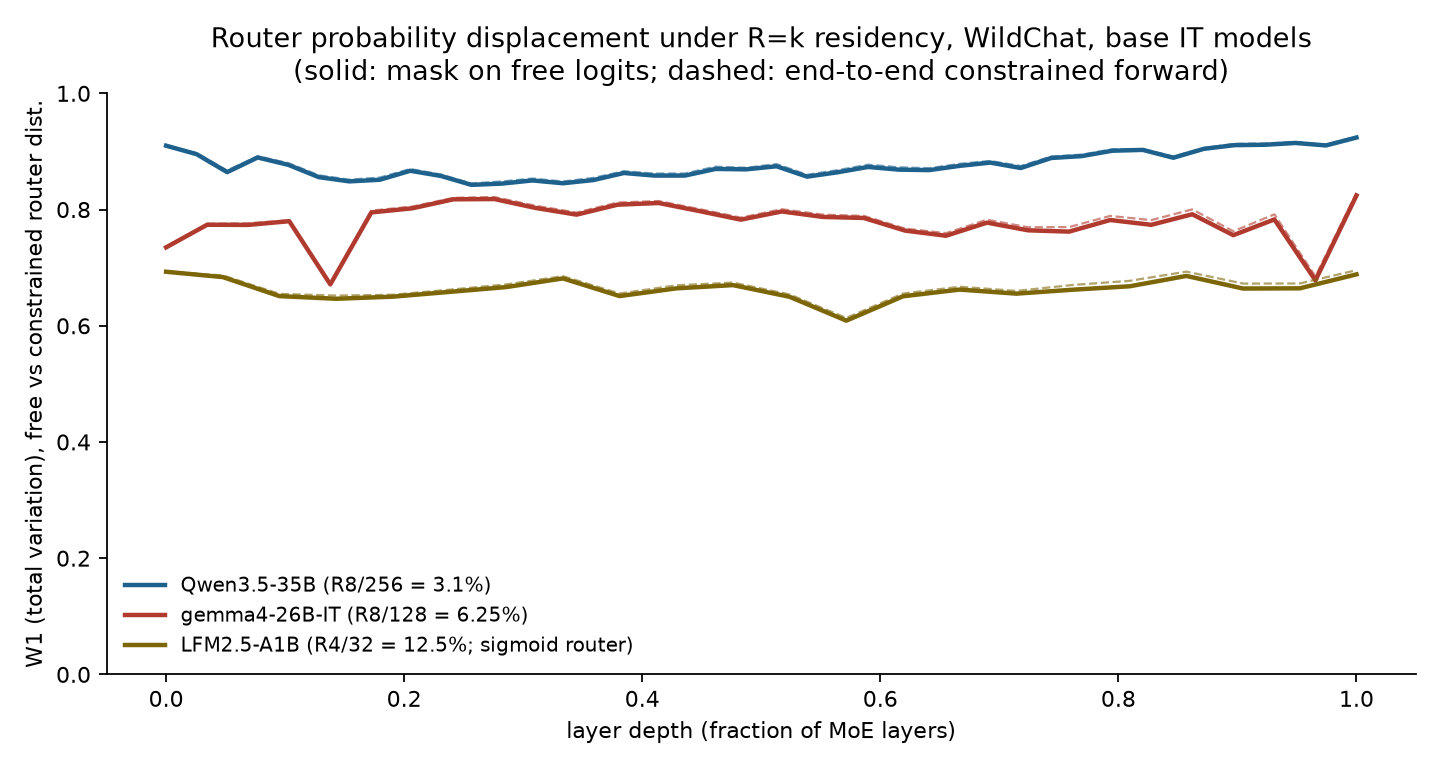
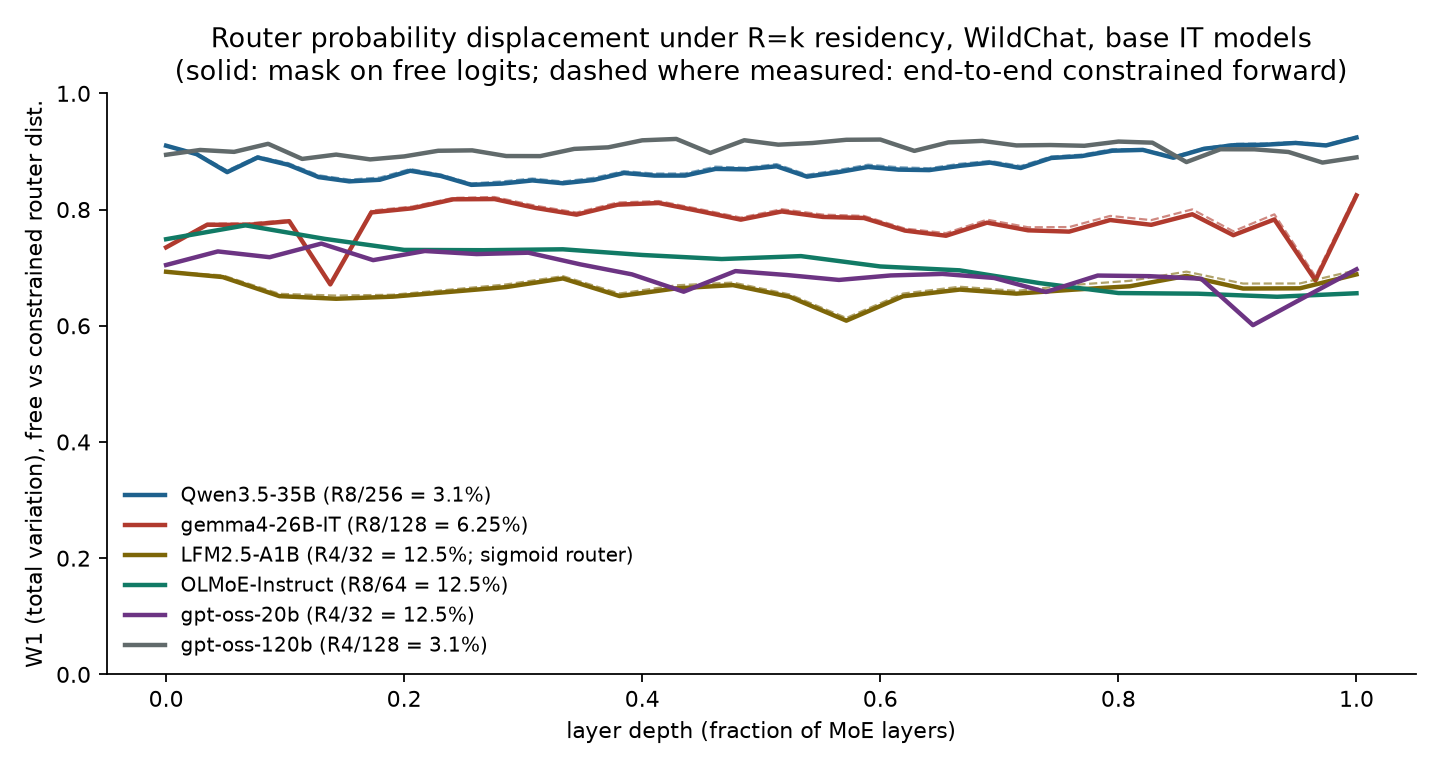
router Wasserstein: olmoe + gpt-oss-20b + gpt-oss-120b (120b via vLLM MXFP4 prefill capture; HF dequant infeasible under 251GB cgroup); six-model figure

diff --git a/analysis/residency/router_wasserstein.py b/analysis/residency/router_wasserstein.py
@@ -45,6 +45,12 @@ def routers_of(model, family):
     if family == "lfm":
         from transformers.models.lfm2_moe import modeling_lfm2_moe as m
         return [mod for mod in model.modules() if isinstance(mod, m.Lfm2MoeSparseMoeBlock)]
+    if family == "olmoe":
+        from transformers.models.olmoe import modeling_olmoe as m
+        return [mod for mod in model.modules() if isinstance(mod, m.OlmoeTopKRouter)]
+    if family == "gptoss":
+        from transformers.models.gpt_oss import modeling_gpt_oss as m
+        return [mod for mod in model.modules() if isinstance(mod, m.GptOssTopKRouter)]
     raise ValueError(family)
 
 
@@ -59,10 +65,20 @@ def hook_capture(routers, family, store):
             h = r.register_forward_hook(
                 lambda _m, _i, out, li=li: store.setdefault(li, []).append(
                     out[0].detach().float()))
-        else:                                    # lfm: gate Linear inside the block
+        elif family == "lfm":                    # gate Linear inside the block
             h = r.gate.register_forward_hook(
                 lambda _m, _i, out, li=li: store.setdefault(li, []).append(
                     out.detach().float()))
+        elif family == "olmoe":                  # router returns (logits, w, idx)
+            h = r.register_forward_hook(
+                lambda _m, _i, out, li=li: store.setdefault(li, []).append(
+                    out[0].detach().float()))
+        else:                                    # gptoss: recompute logits from inputs
+            def _cap(_m, _i, _out, li=li):
+                x = _i[0].reshape(-1, _m.weight.shape[1])
+                lg = torch.nn.functional.linear(x.float(), _m.weight.float(), _m.bias.float())
+                store.setdefault(li, []).append(lg.detach())
+            h = r.register_forward_hook(_cap)
         handles.append(h)
     return handles
 
@@ -84,7 +100,9 @@ def masked_dist(lg, R, family):
 
 def main():
     ap = argparse.ArgumentParser()
-    ap.add_argument("--family", required=True, choices=("gemma4", "qwen35", "lfm"))
+    ap.add_argument("--family", required=True,
+                    choices=("gemma4", "qwen35", "lfm", "olmoe", "gptoss"))
+    ap.add_argument("--dequantize", action="store_true", help="gpt-oss: dequantize MXFP4 to bf16")
     ap.add_argument("--model-path", required=True)
     ap.add_argument("--R", type=int, required=True, help="residency budget (=k)")
     ap.add_argument("--n", type=int, default=200)
@@ -94,11 +112,25 @@ def main():
 
     from transformers import AutoModelForCausalLM, AutoTokenizer
     tok = AutoTokenizer.from_pretrained(A.model_path)
+    kw = {}
+    if A.family == "gptoss" and A.dequantize:
+        from transformers import Mxfp4Config
+        kw["quantization_config"] = Mxfp4Config(dequantize=True)
+        kw["device_map"] = "auto"      # 120b dequantized (235GB) streams via offload
+    if A.family == "gptoss" and not A.dequantize:
+        kw["device_map"] = "cuda"
     model = AutoModelForCausalLM.from_pretrained(
-        A.model_path, dtype=torch.bfloat16).to("cuda").eval()
+        A.model_path, dtype=torch.bfloat16, **kw)
+    if "device_map" not in kw:
+        model = model.to("cuda")
+    assert routers_of(model, A.family), "no router modules found"
+    model = model.eval()
+    # olmoe/gptoss: imposed-only (no constrained-forward hook exists; the three
+    # patched models showed endtoend - imposed <= 0.005, so imposed suffices)
     patch = {"gemma4": GL.patch_gemma4, "qwen35": GL.patch_qwen35,
-             "lfm": GL.patch_lfm}[A.family]
-    patch()
+             "lfm": GL.patch_lfm}.get(A.family)
+    if patch:
+        patch()
     tag = {"gemma4": GL.tag_gemma4, "qwen35": GL.tag_qwen35}.get(A.family)
     if tag:
         tag(model)
@@ -116,28 +148,31 @@ def main():
                                       tokenize=True, return_dict=True)
         ids = torch.tensor([enc["input_ids"][: A.max_tok]], device="cuda")
         free_store, con_store = {}, {}
+        imposed_only = A.family in ("olmoe", "gptoss")
         with torch.no_grad():
             GL.CFG.update(on=False, enforce_from=0, batch=1)
             hs = hook_capture(routers, A.family, free_store)
             model(ids)
             for h in hs:
                 h.remove()
-            GL.CFG.update(on=True, R=A.R, enforce_from=0, batch=1,
-                          cold_start=False)
-            hs = hook_capture(routers, A.family, con_store)
-            model(ids)
-            for h in hs:
-                h.remove()
-            GL.CFG.update(on=False, batch=1)
+            if not imposed_only:
+                GL.CFG.update(on=True, R=A.R, enforce_from=0, batch=1,
+                              cold_start=False)
+                hs = hook_capture(routers, A.family, con_store)
+                model(ids)
+                for h in hs:
+                    h.remove()
+                GL.CFG.update(on=False, batch=1)
         T = ids.shape[1]
         for li in range(L):
             lf = free_store[li][0].reshape(T, -1)
-            lc = con_store[li][0].reshape(T, -1)
             pf = dist_from_logits(lf, A.family)
             q_imp = masked_dist(lf, A.R, A.family)
-            q_e2e = masked_dist(lc, A.R, A.family)
             sums_imp[li] += 0.5 * (pf - q_imp).abs().sum(-1).sum().cpu()
-            sums_e2e[li] += 0.5 * (pf - q_e2e).abs().sum(-1).sum().cpu()
+            if not imposed_only:
+                lc = con_store[li][0].reshape(T, -1)
+                q_e2e = masked_dist(lc, A.R, A.family)
+                sums_e2e[li] += 0.5 * (pf - q_e2e).abs().sum(-1).sum().cpu()
         ntok += T
         if pi % 25 == 0:
             print(f"[rw] {pi}/{len(prompts)}", flush=True)
@@ -154,9 +189,9 @@ def main():
                         "Producer: analysis/residency/router_wasserstein.py"])
             w.writerow(["model", "family", "R", "layer", "w1_imposed", "w1_endtoend", "n_tokens"])
         for li in range(L):
+            e2e = "" if A.family in ("olmoe", "gptoss") else f"{sums_e2e[li].item()/ntok:.5f}"
             w.writerow([os.path.basename(A.model_path.rstrip("/")), A.family, A.R, li,
-                        f"{sums_imp[li].item()/ntok:.5f}",
-                        f"{sums_e2e[li].item()/ntok:.5f}", ntok])
+                        f"{sums_imp[li].item()/ntok:.5f}", e2e, ntok])
     print(f"[rw] DONE {A.family}: mean imposed "
           f"{sums_imp.sum().item()/ntok/L:.4f}, endtoend "
           f"{sums_e2e.sum().item()/ntok/L:.4f} over {ntok} tokens", flush=True)

diff --git a/analysis/residency/router_wasserstein_oss120_vllm.py b/analysis/residency/router_wasserstein_oss120_vllm.py
@@ -1,0 +1,72 @@
+#!/usr/bin/env python3
+"""oss-120b router W1 via vLLM prefill capture (MXFP4-native; HF dequant path is
+infeasible under the 251GB cgroup). Hooks FusedMoE.forward in-process, prefders
+WildChat prompts one at a time (max_tokens=1), computes imposed-variant W1 with
+the same offline scan as router_wasserstein.py, appends to the same CSV."""
+import csv
+import json
+import os
+import sys
+
+import torch
+
+sys.path.insert(0, "/workspace/temporal-moe/analysis/residency")
+sys.path.insert(0, "/workspace/temporal-moe/analysis")
+os.environ["VLLM_ENABLE_V1_MULTIPROCESSING"] = "0"
+
+import granularity_ladder as GL                                      # noqa: E402
+from paths import ABLATIONS                                          # noqa: E402
+
+MODEL = "/dev/shm/gpt-oss-120b"
+PROMPTS = "/workspace/olmoe-adapt/data/wildchat_prompts_train5k.jsonl"
+R, N, MAXTOK = 4, 100, 512
+
+CAP = []
+import vllm_glue                                                     # noqa: E402
+vllm_glue.install()
+import vllm_residency as VR                                          # noqa: E402
+_orig_apply = VR.apply
+def _cap_apply(key, router_logits, *a, **k):
+    CAP.append(router_logits.detach().float())
+    return _orig_apply(key, router_logits, *a, **k)
+VR.apply = _cap_apply
+
+from vllm import LLM, SamplingParams                                 # noqa: E402
+llm = LLM(model=MODEL, enforce_eager=True, gpu_memory_utilization=0.92,
+          max_model_len=1024, enable_prefix_caching=False)
+sp = SamplingParams(max_tokens=1, temperature=0)
+
+prompts = [json.loads(l)["text"] for l in open(PROMPTS)][:N]
+sums = None
+ntok = 0
+L = None
+for pi, text in enumerate(prompts):
+    CAP.clear()
+    llm.chat([[{"role": "user", "content": text}]], sp, use_tqdm=False)
+    if L is None:
+        L = len(CAP)
+        sums = torch.zeros(L)
+        print(f"[rw-vllm] {L} MoE layers captured per pass", flush=True)
+    assert len(CAP) % L == 0, (len(CAP), L)
+    # last L entries = the single decode step; the first block(s) are prefill.
+    # prefill block: first L captures cover the full prompt.
+    for li in range(L):
+        lg = CAP[li][: MAXTOK].float()                # [T,E] prefill logits
+        pf = torch.softmax(lg, -1)
+        mask = GL.compute_resident_mask_accel(
+            lg.unsqueeze(1), R, evict="min_logit").squeeze(1)
+        q = pf * mask
+        q = q / q.sum(-1, keepdim=True).clamp_min(1e-9)
+        sums[li] += 0.5 * (pf - q).abs().sum(-1).sum().cpu()
+    ntok += min(CAP[0].shape[0], MAXTOK)
+    if pi % 25 == 0:
+        print(f"[rw-vllm] {pi}/{N}", flush=True)
+
+out = os.path.join(ABLATIONS, "router_wasserstein.csv")
+with open(out, "a", newline="") as fh:
+    w = csv.writer(fh)
+    for li in range(L):
+        w.writerow(["gpt-oss-120b", "gptoss", R, li,
+                    f"{sums[li].item()/ntok:.5f}", "", ntok])
+print(f"[rw-vllm] DONE oss120: mean imposed {sums.sum().item()/ntok/L:.4f} "
+      f"over {ntok} tokens", flush=True)

diff --git a/analysis/residency/router_wasserstein_figure.py b/analysis/residency/router_wasserstein_figure.py
@@ -4,18 +4,22 @@ matplotlib.use("Agg")
 import matplotlib.pyplot as plt
 rows=[r for r in csv.reader(open("results/ablations/router_wasserstein.csv")) if len(r)==7 and r[0]!="model" and not r[0].startswith("#")]
 fig,ax=plt.subplots(figsize=(9,4.8))
-colors={"qwen35":"#1e618d","gemma4":"#b03a2e","lfm":"#7d6608"}
-labels={"qwen35":"Qwen3.5-35B (R8/256 = 3.1%)","gemma4":"gemma4-26B-IT (R8/128 = 6.25%)","lfm":"LFM2.5-A1B (R4/32 = 12.5%; sigmoid router)"}
-for fam in ("qwen35","gemma4","lfm"):
-    sub=sorted([(int(r[3]),float(r[4]),float(r[5])) for r in rows if r[1]==fam])
+colors={"qwen35":"#1e618d","gemma4":"#b03a2e","lfm":"#7d6608","olmoe":"#117a65","gptoss20":"#6c3483","gptoss120":"#616a6b"}
+labels={"qwen35":"Qwen3.5-35B (R8/256 = 3.1%)","gemma4":"gemma4-26B-IT (R8/128 = 6.25%)","lfm":"LFM2.5-A1B (R4/32 = 12.5%; sigmoid router)","olmoe":"OLMoE-Instruct (R8/64 = 12.5%)","gptoss20":"gpt-oss-20b (R4/32 = 12.5%)","gptoss120":"gpt-oss-120b (R4/128 = 3.1%)"}
+def famkey(r):
+    if r[1]!="gptoss": return r[1]
+    return "gptoss120" if "120" in r[0] else "gptoss20"
+for fam in ("qwen35","gemma4","lfm","olmoe","gptoss20","gptoss120"):
+    sub=sorted([(int(r[3]),float(r[4]),float(r[5]) if r[5] else None) for r in rows if famkey(r)==fam])
     if not sub: continue
     L=[x[0] for x in sub]
     frac=[l/(len(sub)-1) for l in L]
     ax.plot(frac,[x[1] for x in sub],color=colors[fam],label=labels[fam],lw=2)
-    ax.plot(frac,[x[2] for x in sub],color=colors[fam],lw=1,ls="--",alpha=0.6)
+    if all(x[2] is not None for x in sub):
+        ax.plot(frac,[x[2] for x in sub],color=colors[fam],lw=1,ls="--",alpha=0.6)
 ax.set_xlabel("layer depth (fraction of MoE layers)")
 ax.set_ylabel("W1 (total variation), free vs constrained router dist.")
-ax.set_title("Router probability displacement under R=k residency, WildChat, base IT models\n(solid: mask on free logits; dashed: end-to-end constrained forward)")
+ax.set_title("Router probability displacement under R=k residency, WildChat, base IT models\n(solid: mask on free logits; dashed where measured: end-to-end constrained forward)")
 ax.legend(frameon=False,fontsize=9)
 ax.spines[["top","right"]].set_visible(False)
 ax.set_ylim(0,1)
